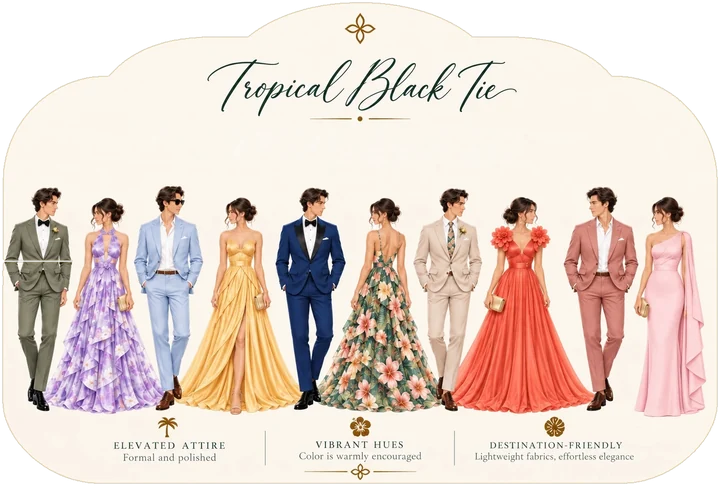
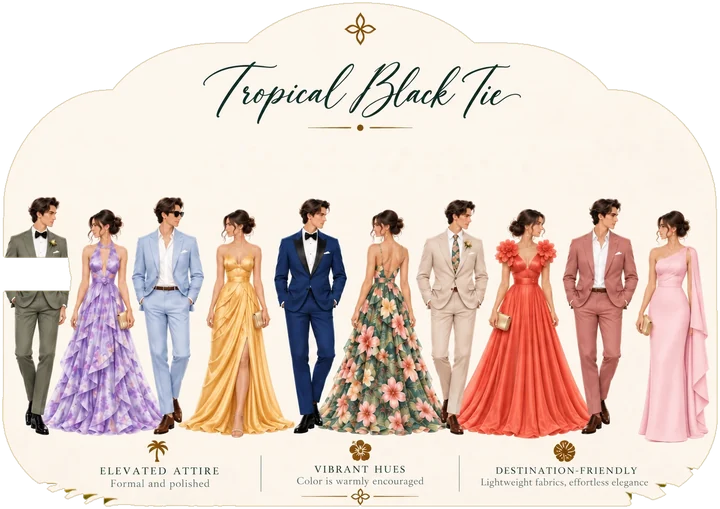
Saturday dress code panel from the new mockup
Claude-Session: https://claude.ai/code/session_01GqK2ENqeRUwQmtgcSZFd9X

diff --git a/index.html b/index.html
@@ -994,7 +994,7 @@ html.has-lightbox{overflow:hidden}
   <p class="dress-copy">Join us for sunset cocktails and our tea ceremony at Rock Bar! We’d love for everyone to wear white — think relaxed, elevated, and beach chic.</p>
   <span class="eyebrow dress-day">Saturday · The wedding</span>
   <figure class="dress-plate" id="dressPlate">
-    <img src="assets/dress-plate.webp" srcset="assets/dress-plate-m.webp 720w, assets/dress-plate.webp 1407w" sizes="min(92vw, 960px)" alt="Tropical black tie. Ten guests in colourful formalwear: suits in sage, sky blue, navy, sand and terracotta; gowns in lilac floral, gold, green floral, coral and blush pink. Elevated attire, vibrant hues, destination-friendly." width="1407" height="950" loading="lazy" decoding="async">
+    <img src="assets/dress-plate.webp" srcset="assets/dress-plate-m.webp 720w, assets/dress-plate.webp 1335w" sizes="min(92vw, 960px)" alt="Tropical black tie. Ten guests in colourful formalwear: suits in sage, sky blue, navy, sand and terracotta; gowns in lilac floral, gold, green floral, coral and blush pink. Elevated attire, vibrant hues, destination-friendly." width="1335" height="943" loading="lazy" decoding="async">
   </figure>
   <p class="dress-copy">Tropical black tie attire is requested, with vibrant colors and tropical hues warmly encouraged. Lightweight fabrics and destination-friendly silhouettes are welcome. Above all, come dressed in your formal best and ready to celebrate with us.</p>
 </section>
